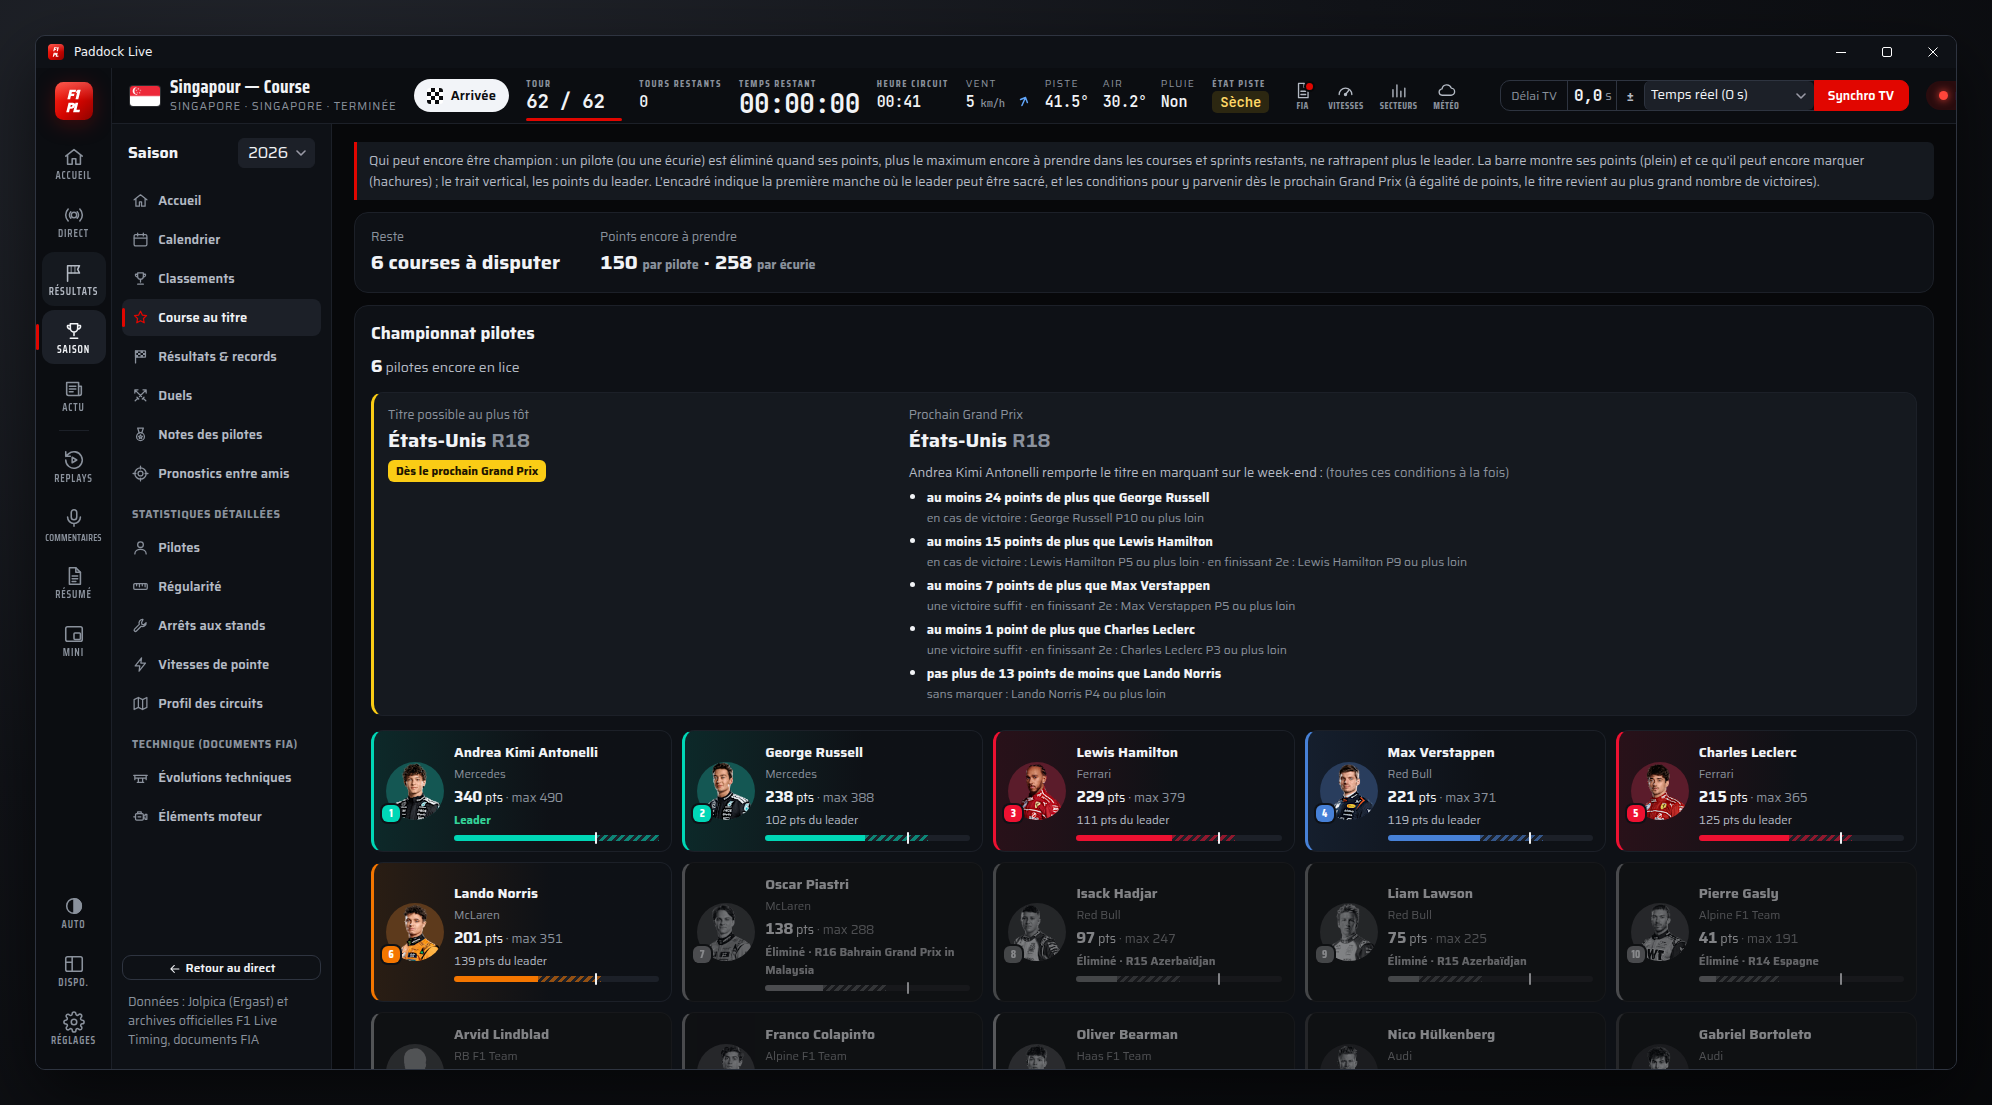
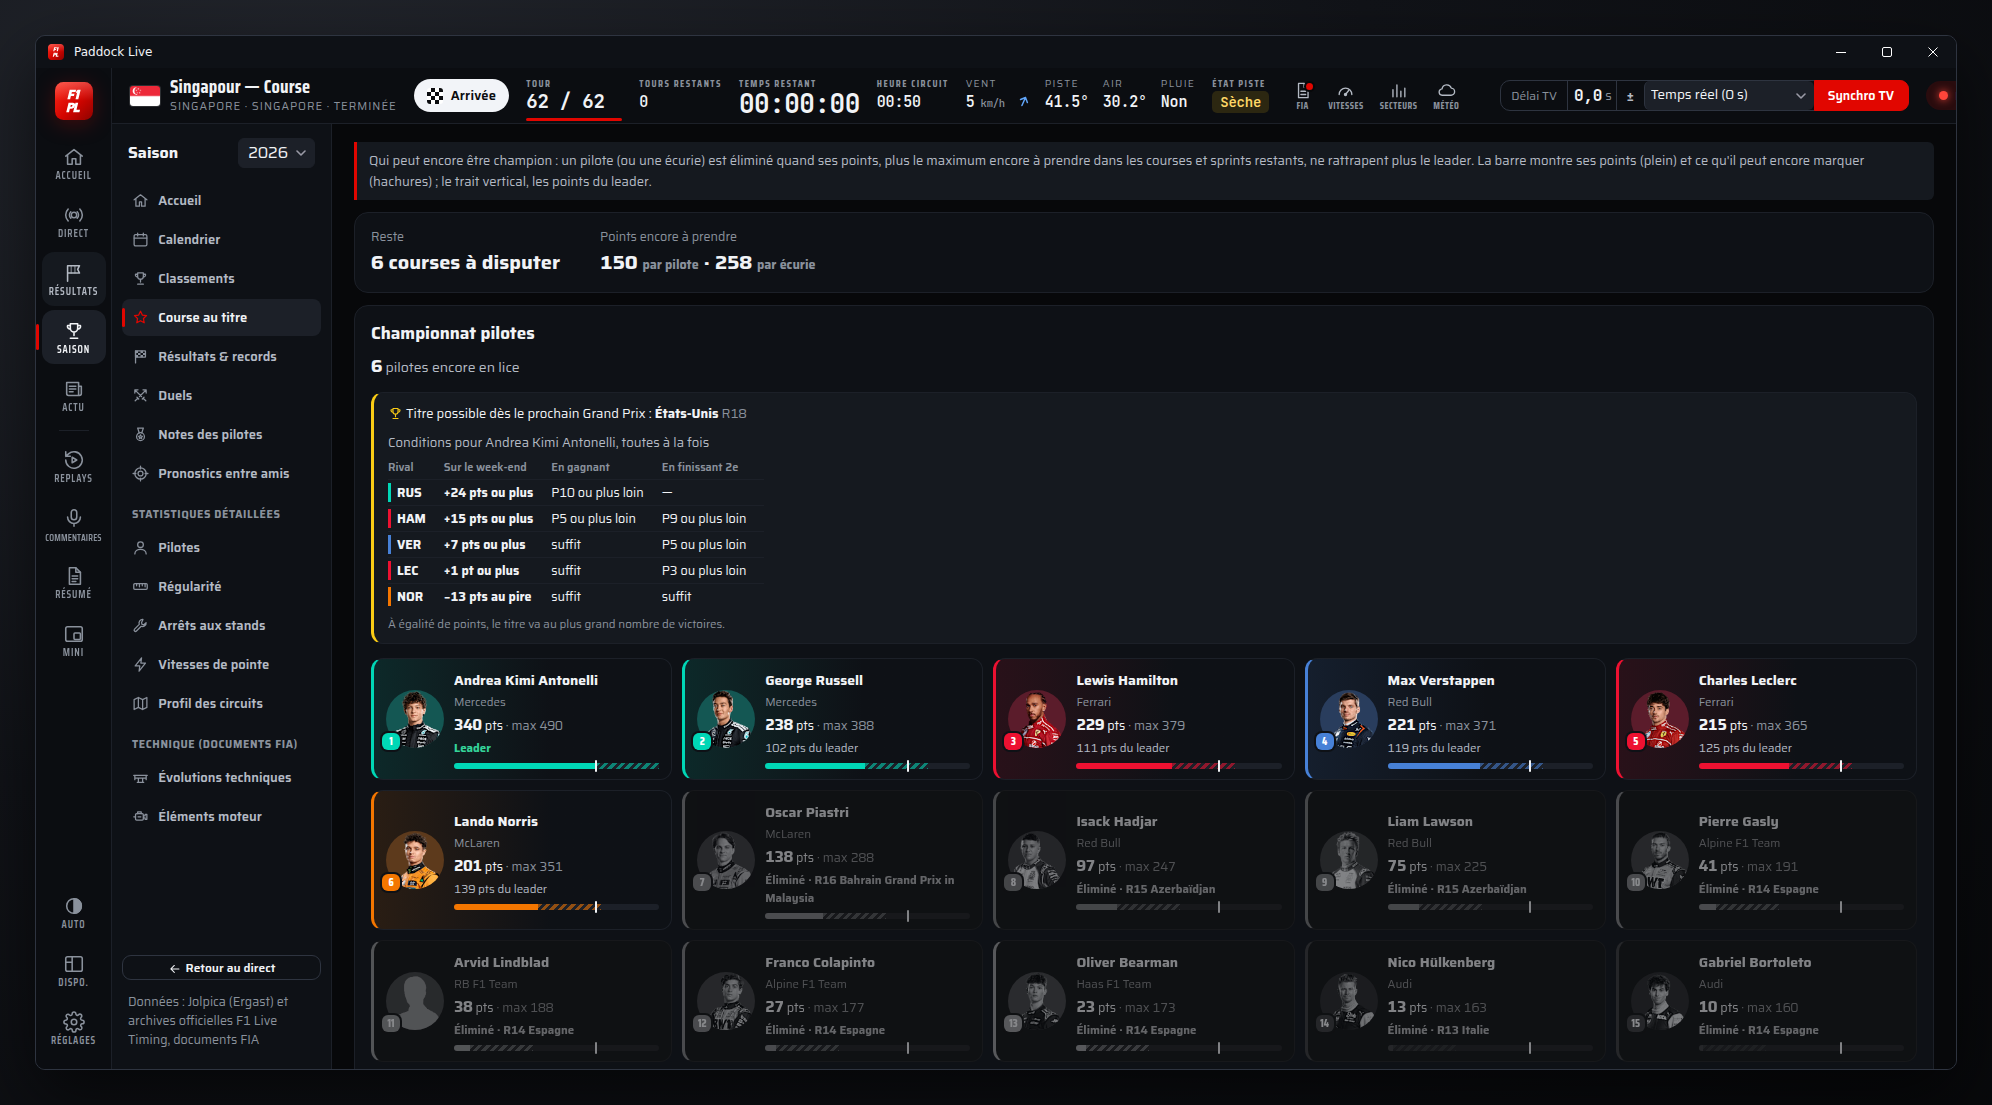
Course au titre : conditions du titre en petit tableau au lieu d'un pavé de texte
Une ligne d'en-tête (titre possible dès le prochain GP ou au plus tôt), puis un
tableau d'une ligne par rival : points à prendre sur le week-end, place que le
rival ne doit pas dépasser si le leader gagne ou finit 2e. Explication de la vue
raccourcie d'autant ; capture du README refaite.

Claude-Session: https://claude.ai/code/session_01WgEz3ZSgjwLPy4E2f6uwb7

diff --git a/public/js/ui/season.js b/public/js/ui/season.js
@@ -424,43 +424,37 @@ function renderTitle() {
   const head = (l, champ, kind) => (champ
     ? `<div class="tr-champ">${icon('trophy')} ${kind === 'd' ? t('{} est champion du monde', esc(champ.name)) : t('{} est championne du monde des constructeurs', esc(champ.name))}</div>`
     : `<div class="tr-count"><b>${alive(l)}</b> ${kind === 'd' ? t('pilotes encore en lice') : t('écuries encore en lice')}</div>`);
-  // Quand le titre peut-il se jouer : au plus tôt, et toutes les conditions au prochain Grand Prix
+  // Quand le titre peut-il se jouer : au plus tôt, et toutes les conditions au prochain Grand Prix (tableau compact)
   const clinchBox = (c, kind) => {
     if (!c) return '';
-    const gp = (r) => `${esc(gpShort(r.name, EN))} <span class="muted">R${r.round}</span>`;
+    const gp = (r) => `<b>${esc(gpShort(r.name, EN))}</b> <span class="muted">R${r.round}</span>`;
     const L = esc(c.leader.name);
     const top = c.needs[0];
     const atNext = c.earliest?.round === c.next.round;
-    const early = `<div class="tr-cl-early"><div class="muted small">${t('Titre possible au plus tôt')}</div><div class="tr-big">${c.earliest ? gp(c.earliest) : t('Dernière manche')}</div>
-      ${atNext ? `<div class="tr-cl-tag">${t('Dès le prochain Grand Prix')}</div>` : top ? `<div class="muted small">${t('si {} marque le maximum à chaque manche jusque-là et {} aucun point', L, esc(top.name))}</div>` : ''}</div>`;
-    // Exemples de places à l'arrivée (week-end sans sprint, pilotes seulement)
-    const ex = (n) => {
-      if (kind !== 'd' || c.next.sprint) return '';
-      const R = esc(n.name);
-      const place = (pts) => { const p = placeForMaxPoints(pts); return p > 10 ? t('{} hors des points', R) : t('{} P{} ou plus loin', R, p); };
-      const out = [];
-      if (n.margin > 0) {
-        // Victoire du leader : le rival au mieux 2e, la condition peut être remplie d'office
-        if (placeForMaxPoints(25 - n.margin) <= 2) out.push(t('une victoire suffit'));
-        else if (25 - n.margin >= 0) out.push(`${t('en cas de victoire')} : ${place(25 - n.margin)}`);
-        if (18 - n.margin >= 0) out.push(`${t('en finissant 2e')} : ${place(18 - n.margin)}`);
-      } else if (placeForMaxPoints(-n.margin) > 1) out.push(`${t('sans marquer')} : ${place(-n.margin)}`);
-      return out.length ? `<div class="tr-cl-ex">${out.join(' · ')}</div>` : '';
+    const list = kind === 'd' ? tr.drivers : tr.constructors;
+    const who = (n) => {
+      const e = list.find((x) => x.key === n.key) || {};
+      return `<span class="tr-cl-who" style="--tc:${kind === 'd' ? color(e.team, e.teamId) : color(e.name, e.id)}" title="${esc(n.name)}">${esc(kind === 'd' ? n.code : n.name)}</span>`;
     };
-    const cond = (n) => {
-      const R = esc(n.name);
-      const txt = n.margin === 1 ? t('au moins 1 point de plus que {}', R)
-        : n.margin > 0 ? t('au moins {} points de plus que {}', n.margin, R)
-          : n.margin === 0 ? t('au moins autant de points que {}', R)
-            : n.margin === -1 ? t('pas plus de 1 point de moins que {}', R)
-              : t('pas plus de {} points de moins que {}', -n.margin, R);
-      return `<li><b>${txt}</b>${ex(n)}</li>`;
+    // Place à l'arrivée qu'il faut au rival quand le leader finit 1er (25 pts) ou 2e (18 pts)
+    const place = (n, lp, lpos) => {
+      const allowed = lp - n.margin;
+      if (allowed < 0) return '—';
+      const p = placeForMaxPoints(allowed);
+      if (p < lpos || (lpos === 1 && p <= 2)) return t('suffit');
+      return p > 10 ? t('hors des points') : t('P{} ou plus loin', p === lpos ? p + 1 : p);
     };
-    const next = `<div class="tr-cl-next"><div class="muted small">${t('Prochain Grand Prix')}</div><div class="tr-big">${gp(c.next)}${c.next.sprint ? ` <span class="muted small">${t('sprint et course cumulés')}</span>` : ''}</div>
-      ${!c.possibleNext
-    ? `<p>${t('Le titre ne peut pas encore se jouer à ce Grand Prix : il faudrait à {} {} points de plus que {}, pour {} au maximum sur le week-end.', L, top.margin, esc(top.name), c.next.max)}</p>`
-    : `<p>${t('{} remporte le titre en marquant sur le week-end :', L)}${c.needs.length > 1 ? ` <span class="muted">${t('(toutes ces conditions à la fois)')}</span>` : ''}</p><ul>${c.needs.map(cond).join('')}</ul>`}</div>`;
-    return `<div class="tr-clinch">${early}${next}</div>`;
+    const places = kind === 'd' && !c.next.sprint;
+    const gap = (m) => (m === 1 ? t('+1 pt ou plus') : m > 0 ? t('+{} pts ou plus', m) : m === 0 ? t('égalité ou mieux') : m === -1 ? t('−1 pt au pire') : t('−{} pts au pire', -m));
+    const head = `<div class="tr-cl-head"><span>${icon('trophy')} ${t(atNext ? 'Titre possible dès le prochain Grand Prix : {}' : 'Titre possible au plus tôt : {}', c.earliest ? gp(c.earliest) : t('Dernière manche'))}</span>
+      ${!atNext && top ? `<span class="muted">${t('si {} marque le maximum à chaque manche jusque-là et {} aucun point', L, esc(top.name))}</span>` : ''}</div>`;
+    const body = !c.possibleNext
+      ? `<div class="tr-cl-note">${t('Pas encore à {} : il faudrait {} points de plus que {} ({} au maximum sur le week-end).', esc(gpShort(c.next.name, EN)), top.margin, esc(top.name), c.next.max)}</div>`
+      : `<div class="tr-cl-sub">${c.needs.length > 1 ? t('Conditions pour {}, toutes à la fois', L) : t('Condition pour {}', L)}${c.next.sprint ? ` <span class="muted">· ${t('sprint et course cumulés')}</span>` : ''}</div>
+        <div class="tr-cl-scroll"><table class="tr-cl-tbl"><thead><tr><th>${t('Rival')}</th><th>${t('Sur le week-end')}</th>${places ? `<th>${t('En gagnant')}</th><th>${t('En finissant 2e')}</th>` : ''}</tr></thead>
+        <tbody>${c.needs.map((n) => `<tr><td>${who(n)}</td><td><b>${gap(n.margin)}</b></td>${places ? `<td>${place(n, 25, 1)}</td><td>${place(n, 18, 2)}</td>` : ''}</tr>`).join('')}</tbody></table></div>
+        <div class="tr-cl-note">${t('À égalité de points, le titre va au plus grand nombre de victoires.')}</div>`;
+    return `<div class="tr-clinch">${head}${body}</div>`;
   };
   const left = tr.races ? `${t('{} courses', tr.races)}${tr.sprints ? ` ${t('et {} sprints', tr.sprints)}` : ''} ${t('à disputer')}` : t('Saison terminée');
   return `<div class="tr-intro sz-box"><div><div class="muted small">${t('Reste')}</div><div class="tr-big">${left}</div></div>
@@ -472,7 +466,7 @@ function renderTitle() {
 // Explication en tête des vues qui n'en ont pas déjà une
 const HELP = {
   standings: 'Classements officiels des pilotes et des constructeurs, mis à jour après chaque course (sprints compris).',
-  title: 'Qui peut encore être champion : un pilote (ou une écurie) est éliminé quand ses points, plus le maximum encore à prendre dans les courses et sprints restants, ne rattrapent plus le leader. La barre montre ses points (plein) et ce qu\'il peut encore marquer (hachures) ; le trait vertical, les points du leader. L\'encadré indique la première manche où le leader peut être sacré, et les conditions pour y parvenir dès le prochain Grand Prix (à égalité de points, le titre revient au plus grand nombre de victoires).',
+  title: 'Qui peut encore être champion : un pilote (ou une écurie) est éliminé quand ses points, plus le maximum encore à prendre dans les courses et sprints restants, ne rattrapent plus le leader. La barre montre ses points (plein) et ce qu\'il peut encore marquer (hachures) ; le trait vertical, les points du leader.',
   drivers: 'Fiche d\'un pilote : ses chiffres clés et ses notes de la saison, sa position au départ et à l\'arrivée de chaque course, la répartition de ses arrivées, ses points comparés à la saison précédente, puis le détail course par course (qualification, grille, arrivée, points, tours en tête, meilleur tour, vitesse, arrêts).',
   ratings: 'Une note sur 100 et une lettre (S, A, B, C, D, F) pour chaque pilote : la note de la saison le compare à tous les pilotes, la note face au coéquipier le compare à son coéquipier dans la même voiture.',
   predict: 'Avant chaque Grand Prix, chacun pronostique la pole et le podium, sur cet ordinateur ou sur son téléphone (accès réseau). Les choix des autres restent cachés jusqu\'à la fermeture : début des qualifications pour la pole, départ de la course pour le podium.',

diff --git a/public/js/i18n-en.js b/public/js/i18n-en.js
@@ -447,28 +447,29 @@ export default {
   "Points encore à prendre": "Points still available",
   "par pilote": "per driver",
   "par écurie": "per team",
-  "Qui peut encore être champion : un pilote (ou une écurie) est éliminé quand ses points, plus le maximum encore à prendre dans les courses et sprints restants, ne rattrapent plus le leader. La barre montre ses points (plein) et ce qu'il peut encore marquer (hachures) ; le trait vertical, les points du leader. L'encadré indique la première manche où le leader peut être sacré, et les conditions pour y parvenir dès le prochain Grand Prix (à égalité de points, le titre revient au plus grand nombre de victoires).": "Who can still be champion: a driver (or team) is eliminated when their points plus the maximum still available in the remaining races and sprints can no longer catch the leader. The bar shows their points (solid) and what they can still score (hatched); the vertical line marks the leader's points. The box shows the first round where the leader can clinch the title, and the conditions to do it at the next Grand Prix (on equal points, the title goes to the most wins).",
-  "Titre possible au plus tôt": "Title possible at the earliest",
+  "Qui peut encore être champion : un pilote (ou une écurie) est éliminé quand ses points, plus le maximum encore à prendre dans les courses et sprints restants, ne rattrapent plus le leader. La barre montre ses points (plein) et ce qu'il peut encore marquer (hachures) ; le trait vertical, les points du leader.": "Who can still be champion: a driver (or team) is eliminated when their points plus the maximum still available in the remaining races and sprints can no longer catch the leader. The bar shows their points (solid) and what they can still score (hatched); the vertical line marks the leader's points.",
   "Dernière manche": "Final round",
-  "Dès le prochain Grand Prix": "As soon as the next Grand Prix",
   "si {} marque le maximum à chaque manche jusque-là et {} aucun point": "if {} scores the maximum at every round until then and {} scores nothing",
-  "{} hors des points": "{} outside the points",
-  "{} P{} ou plus loin": "{} P{} or lower",
-  "en cas de victoire": "with a win",
-  "en finissant 2e": "finishing 2nd",
-  "sans marquer": "without scoring",
-  "Prochain Grand Prix": "Next Grand Prix",
   "en faveur de {}": "in favour of {}",
-  "une victoire suffit": "a win is enough",
-  "au moins 1 point de plus que {}": "at least 1 point more than {}",
-  "pas plus de 1 point de moins que {}": "no more than 1 point fewer than {}",
-  "au moins {} points de plus que {}": "at least {} points more than {}",
-  "au moins autant de points que {}": "at least as many points as {}",
-  "pas plus de {} points de moins que {}": "no more than {} points fewer than {}",
   "sprint et course cumulés": "sprint and race combined",
-  "Le titre ne peut pas encore se jouer à ce Grand Prix : il faudrait à {} {} points de plus que {}, pour {} au maximum sur le week-end.": "The title cannot be decided at this Grand Prix yet: {} would need {} points more than {}, with {} at most available over the weekend.",
-  "{} remporte le titre en marquant sur le week-end :": "{} wins the title by scoring over the weekend:",
-  "(toutes ces conditions à la fois)": "(all these conditions at once)",
+  "Titre possible dès le prochain Grand Prix : {}": "Title possible as soon as the next Grand Prix: {}",
+  "Titre possible au plus tôt : {}": "Title possible at the earliest: {}",
+  "suffit": "enough",
+  "hors des points": "outside the points",
+  "P{} ou plus loin": "P{} or lower",
+  "+{} pts ou plus": "+{} pts or more",
+  "égalité ou mieux": "level or better",
+  "+1 pt ou plus": "+1 pt or more",
+  "−1 pt au pire": "−1 pt at worst",
+  "−{} pts au pire": "−{} pts at worst",
+  "Pas encore à {} : il faudrait {} points de plus que {} ({} au maximum sur le week-end).": "Not yet in {}: it would take {} points more than {} ({} at most over the weekend).",
+  "Conditions pour {}, toutes à la fois": "Conditions for {}, all at once",
+  "Condition pour {}": "Condition for {}",
+  "Rival": "Rival",
+  "Sur le week-end": "Over the weekend",
+  "En gagnant": "With a win",
+  "En finissant 2e": "Finishing 2nd",
+  "À égalité de points, le titre va au plus grand nombre de victoires.": "On equal points, the title goes to the most wins.",
   "Course au titre": "Title fight",
   "{} courses": "{} races",
   "Reste": "Remaining",

diff --git a/public/css/style.css b/public/css/style.css
@@ -1217,13 +1217,17 @@ body.tab-dragging, body.tab-dragging * { cursor: grabbing !important; user-selec
 .tr-count, .tr-champ { margin: -4px 0 12px; font-size: 14px; color: var(--text-2); }
 .tr-count b { font-size: 18px; color: var(--text); }
 .tr-champ { display: inline-flex; align-items: center; gap: 8px; padding: 6px 12px; border-radius: 9px; font-weight: 800; color: #1d1500; background: var(--yellow); }
-.tr-clinch { display: grid; grid-template-columns: minmax(200px, 1fr) 2fr; gap: 10px 24px; margin: 0 0 14px; padding: 12px 14px; border-radius: 12px; border: 1px solid var(--border); border-left: 3px solid var(--yellow); background: var(--panel-2, var(--panel)); }
-.tr-clinch .tr-big .muted { font-weight: 600; }
-.tr-clinch p { margin: 6px 0 4px; font-size: 13px; color: var(--text-2); }
-.tr-clinch ul { margin: 0; padding-left: 18px; display: flex; flex-direction: column; gap: 4px; font-size: 13px; }
-.tr-cl-ex { font-size: 12px; color: var(--muted); }
-.tr-cl-tag { display: inline-block; margin-top: 4px; padding: 2px 8px; border-radius: 6px; font-size: 11.5px; font-weight: 800; color: #1d1500; background: var(--yellow); }
-@media (max-width: 700px) { .tr-clinch { grid-template-columns: 1fr; } }
+.tr-clinch { margin: 0 0 14px; padding: 10px 14px; border-radius: 12px; border: 1px solid var(--border); border-left: 3px solid var(--yellow); background: var(--panel-2, var(--panel)); font-size: 13px; }
+.tr-cl-head { display: flex; flex-wrap: wrap; align-items: center; gap: 4px 10px; }
+.tr-cl-head .ic { width: 15px; height: 15px; margin-top: -2px; vertical-align: middle; color: var(--yellow); }
+.tr-cl-sub { margin-top: 8px; color: var(--text-2); }
+.tr-cl-scroll { overflow-x: auto; }
+.tr-cl-tbl { margin-top: 4px; border-collapse: collapse; font-size: 12.5px; white-space: nowrap; }
+.tr-cl-tbl th { padding: 2px 18px 3px 0; text-align: left; font-size: 11px; font-weight: 600; color: var(--muted); }
+.tr-cl-tbl td { padding: 3px 18px 3px 0; border-top: 1px solid var(--border); }
+.tr-cl-who { padding-left: 6px; border-left: 3px solid var(--tc); font-weight: 800; }
+@media (max-width: 600px) { .tr-cl-tbl { white-space: normal; } .tr-cl-tbl :is(th, td) { padding-right: 10px; } }
+.tr-cl-note { margin-top: 6px; font-size: 11.5px; color: var(--muted); }
 .tr-grid { display: grid; grid-template-columns: repeat(auto-fill, minmax(250px, 1fr)); gap: 10px; }
 .tr-card { display: flex; gap: 10px; align-items: center; padding: 10px 12px; border-radius: 12px; border: 1px solid var(--border); border-left: 3px solid var(--tc); background: linear-gradient(90deg, color-mix(in srgb, var(--tc) 12%, var(--panel)) 0%, var(--panel) 60%); transition: opacity .2s, filter .2s; }
 .tr-card.out { opacity: .5; filter: grayscale(1); background: var(--panel); }

diff --git a/docs/GUIDE.md b/docs/GUIDE.md
@@ -39,7 +39,7 @@ Le bouton **Saison** de la barre de gauche (🏆 en haut dans les autres designs
 - **Calendrier** : toutes les manches (sprint, terminé / prochain / à venir), vainqueur et poleman, horaires de chaque séance à l'heure de votre ordinateur.
 - **Classements** : courbe des points cumulés du top 10 et classements pilotes / constructeurs complets avec écart au leader.
 - **Résultats & records** : plus de victoires, podiums, poles, meilleure moyenne, plus belle remontée, victoires les plus larges et les plus serrées, et le podium de chaque Grand Prix.
-- **Course au titre** : pilotes (portraits) et écuries (logos) encore capables d'être champions ; les autres sont grisés, avec la manche où ils ont été éliminés (points + maximum encore à prendre < points du leader). Pour chacun : points, écart au leader, maximum atteignable et une barre (points, potentiel restant, leader). Un encadré indique le premier Grand Prix où le leader peut être sacré au plus tôt et, quand c'est possible, toutes les conditions pour l'être dès le prochain Grand Prix (points à prendre sur chaque rival, places à l'arrivée en exemple ; à égalité de points, le plus de victoires l'emporte).
+- **Course au titre** : pilotes (portraits) et écuries (logos) encore capables d'être champions ; les autres sont grisés, avec la manche où ils ont été éliminés (points + maximum encore à prendre < points du leader). Pour chacun : points, écart au leader, maximum atteignable et une barre (points, potentiel restant, leader). Un encadré indique le premier Grand Prix où le leader peut être sacré au plus tôt et, quand c'est possible, toutes les conditions pour l'être dès le prochain Grand Prix, dans un tableau : points à prendre sur chaque rival sur le week-end, et place que le rival ne doit pas dépasser si le leader gagne ou finit 2e (à égalité de points, le plus de victoires l'emporte).
 - **Duels** : deux coéquipiers (écurie choisie par son logo) ou deux pilotes quelconques (« Pilote contre pilote ») : duel en qualifications et en course, points, victoires, podiums, poles, arrivées dans les points et abandons, note face au coéquipier (note de la saison entre pilotes d'écuries différentes), et **écart en qualification** (médiane et moyenne, manche par manche, dans la dernière partie disputée par les deux : Q3, sinon Q2, sinon Q1).
 - **Notes des pilotes** : une note sur 100 et une lettre (S, A, B, C, D, F) pour chaque pilote. La note de la saison le classe parmi tous les pilotes (points par course, rythme de course, places moyennes à l'arrivée et en qualification, places gagnées, courses terminées). La note face au coéquipier compare les duels, la part des points de l'écurie et l'écart en qualification. Le détail du calcul est affiché sous le tableau.
 

diff --git a/CHANGELOG.md b/CHANGELOG.md
@@ -45,9 +45,9 @@ l'application (Réglages → Application → Nouveautés).
   atteignable, et une barre (points actuels, ce qu'il peut encore marquer, position du leader).
 - En tête : courses et sprints restants, points encore à prendre ; le champion est annoncé dès que le
   titre est joué.
-- Quand le titre peut se jouer : le premier Grand Prix où le leader peut être sacré au plus tôt, et
-  toutes les conditions pour l'être dès le prochain Grand Prix, rival par rival (points d'avance à
-  prendre sur le week-end, avec des exemples : « en cas de victoire : Russell P10 ou plus loin »).
+- Quand le titre peut se jouer : le premier Grand Prix où le leader peut être sacré au plus tôt et, dans
+  un petit tableau, toutes les conditions pour l'être dès le prochain Grand Prix, rival par rival : points
+  à prendre sur le week-end, et place que le rival ne doit pas dépasser si le leader gagne ou finit 2e.
 
 ### Saison : Duels
 - La vue « Coéquipiers » devient « Duels » et occupe toute la largeur : le duel à gauche, l'écart en
